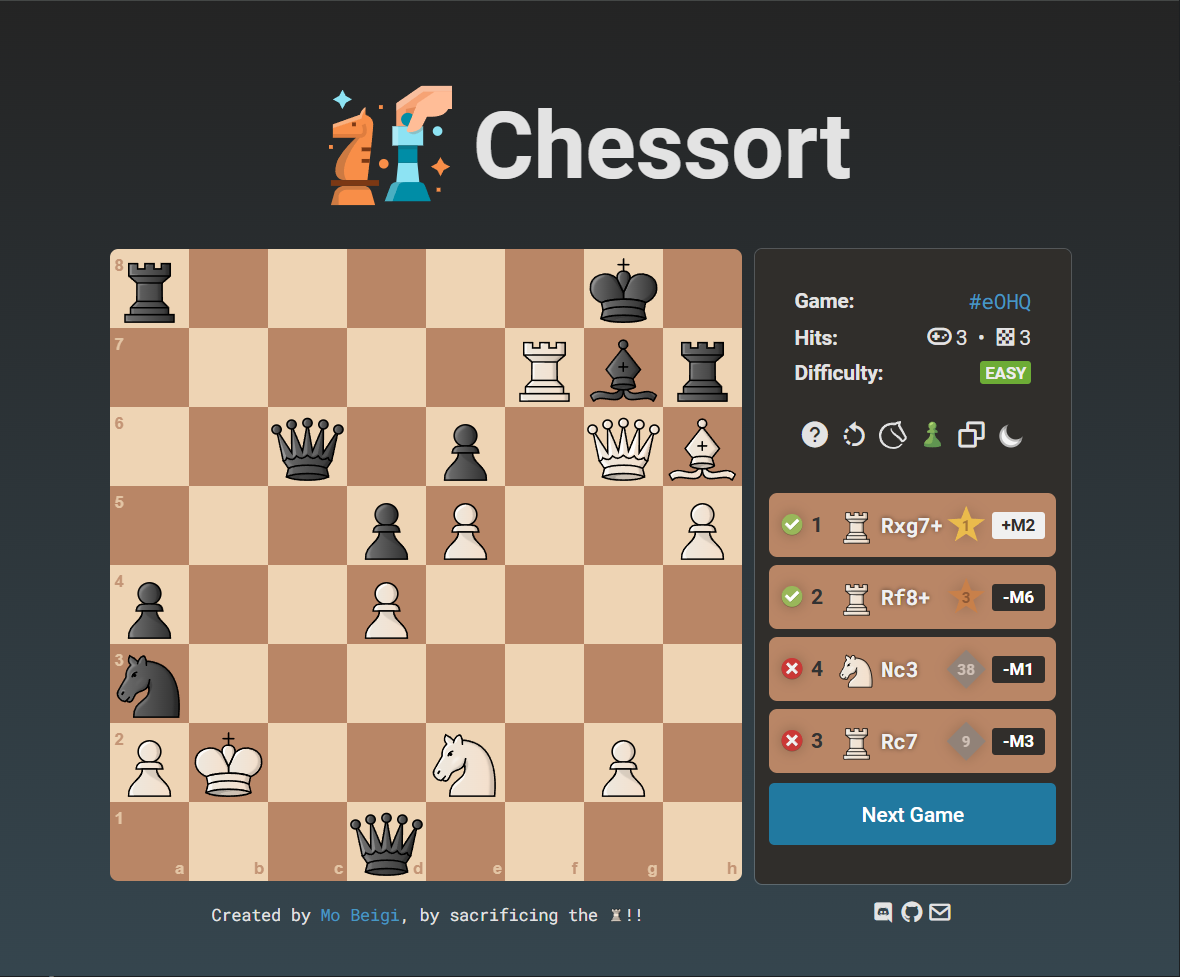
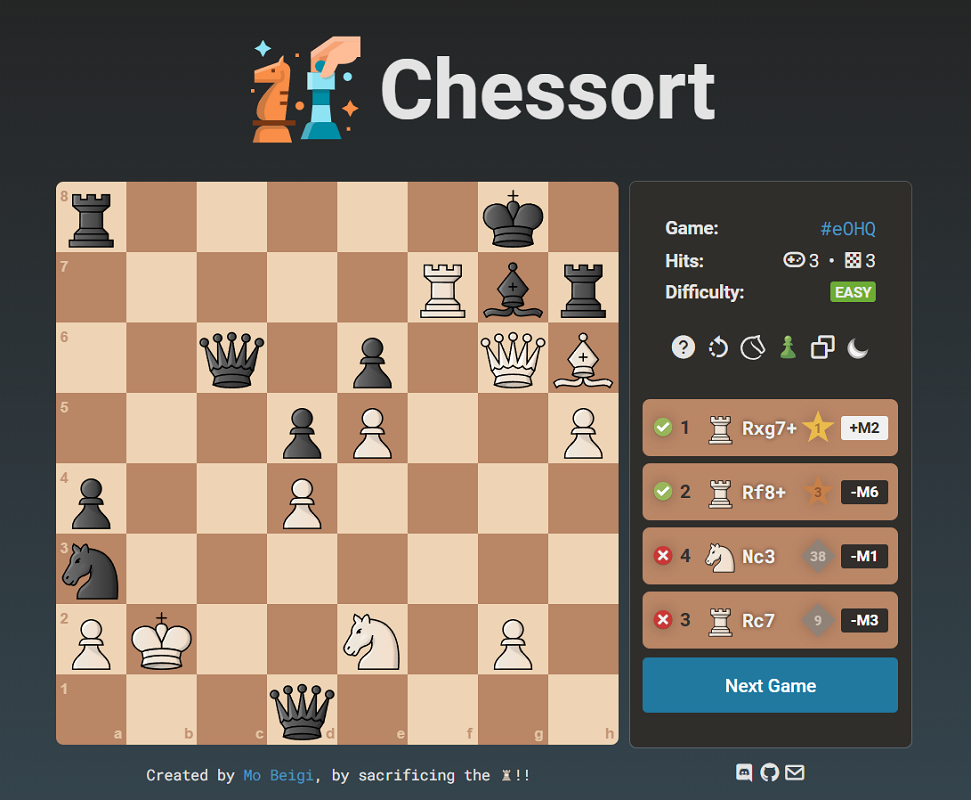
Fix screenshot

diff --git a/README.md b/README.md
@@ -16,7 +16,9 @@
 ## Description
 Chessort is a Chess puzzle game where you sort moves based on the chess engine's evaluation.
 
-<img src="https://github.com/mobeigi/chessort/blob/main/.github/screenshot/chessort-game-screenshot.png?raw=true" width="auto"/>
+<div align="center">
+  <img src="https://github.com/mobeigi/chessort/blob/main/.github/screenshots/chessort-game-screenshot.png?raw=true" width="auto"/>
+</div>
 
 ## Directory Structure
 
